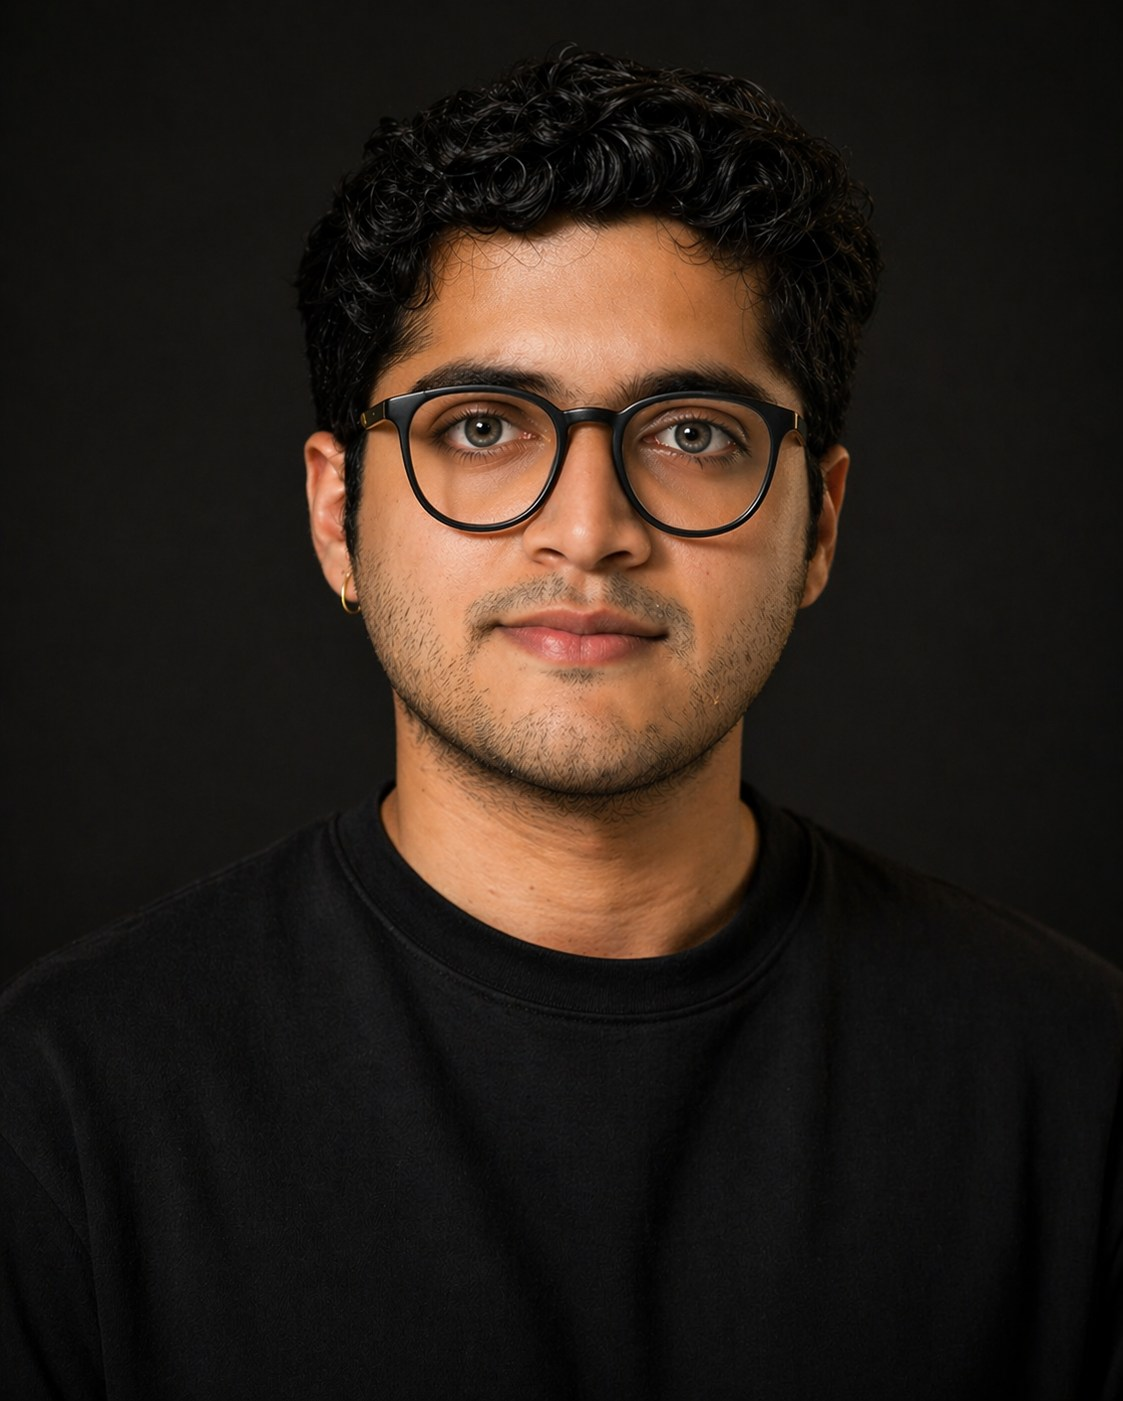
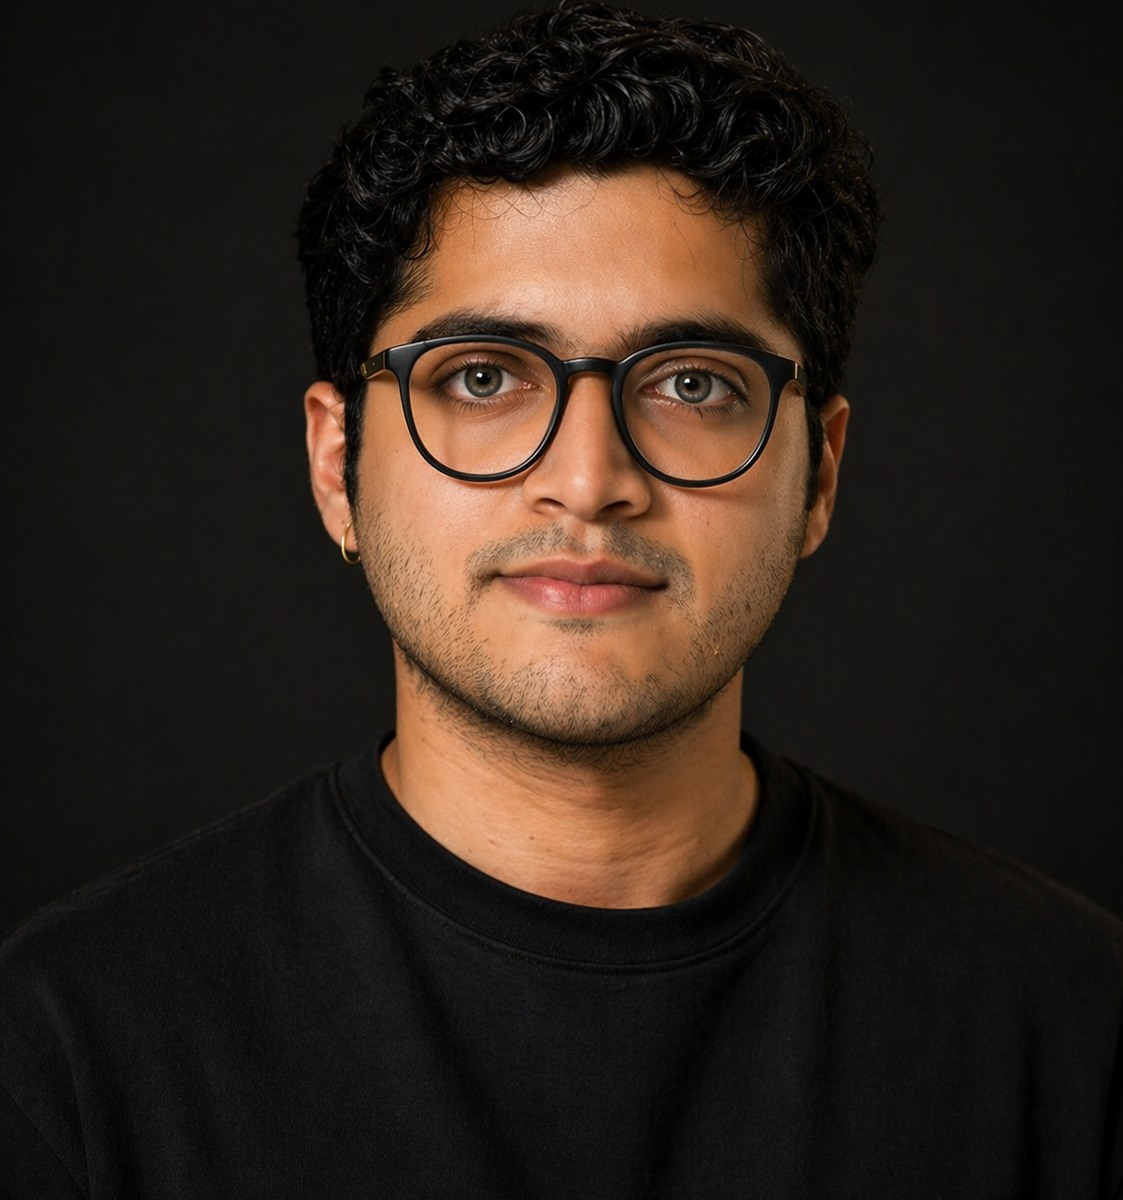
Fix headshot crop: shorter aspect + keep head visible in square containers
Two fixes addressing the 'head cut off in About circle' issue:

1. Re-cropped public/images/headshot.jpg from 1123x1401 to
   1123x1200 (9:10-ish, slightly taller than square). Starting
   crop y-offset is 50px from top to keep a small margin above
   hairline. Used PowerShell + System.Drawing with proper
   disposal + move-item swap to avoid the GDI+ 'file locked'
   error from the previous attempt. Quality 92%, ~180 KB.

2. Changed object-cover → object-cover object-top on the two
   square-container usages so the image's top (head) stays
   visible when cropped to fit:
   - AboutPage.tsx main photo (192-224px square)
   - BookCallNudge.tsx avatar (44px circle)

HeroSection already uses h-auto (displays full aspect), and the
AboutSection circle uses the cartoon illustrated image. Both
unaffected.

Changed region(s): [[0.2493, 0.0, 0.7792, 0.7708], [0.9973, 0.7708, 1.0, 0.8017], [0.748, 0.1542, 0.7792, 0.185]]

diff --git a/src/pages/AboutPage.tsx b/src/pages/AboutPage.tsx
@@ -327,7 +327,7 @@ const AboutPage = () => {
 
           <div className="grid md:grid-cols-[auto,1fr] gap-8 mb-12 items-start">
             <div className="w-48 h-48 md:w-56 md:h-56 rounded-2xl overflow-hidden ring-4 ring-theme-gold/30 mx-auto md:mx-0 shadow-xl shrink-0">
-              <img src="/images/headshot.jpg" alt={c.imgAlt} className="w-full h-full object-cover" loading="eager" width="224" height="224" />
+              <img src="/images/headshot.jpg" alt={c.imgAlt} className="w-full h-full object-cover object-top" loading="eager" width="224" height="224" />
             </div>
 
             <div className="space-y-4 text-gray-700 text-lg leading-relaxed">

diff --git a/src/components/BookCallNudge.tsx b/src/components/BookCallNudge.tsx
@@ -105,7 +105,7 @@ const BookCallNudge = () => {
               <img
                 src="/images/headshot.jpg"
                 alt="Aru Bhardwaj"
-                className="w-full h-full object-cover"
+                className="w-full h-full object-cover object-top"
                 loading="lazy"
               />
             </div>
